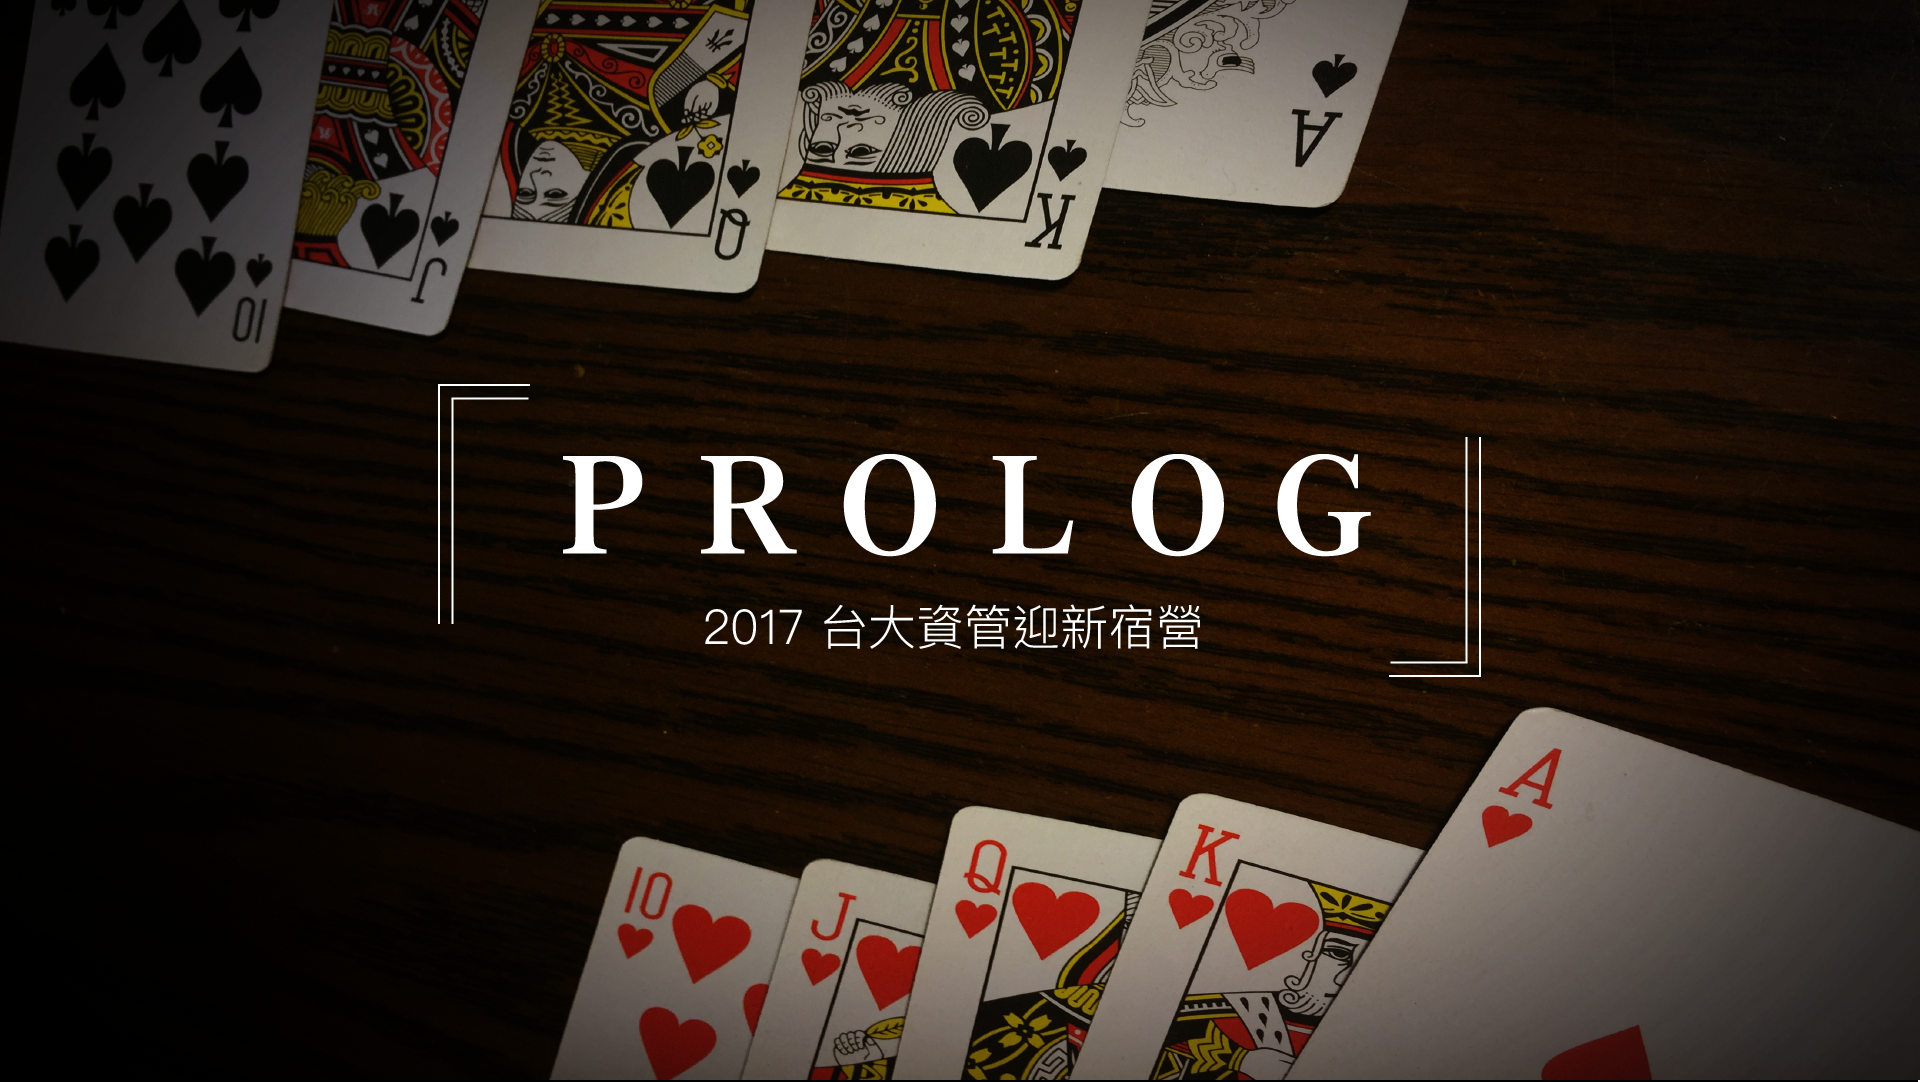
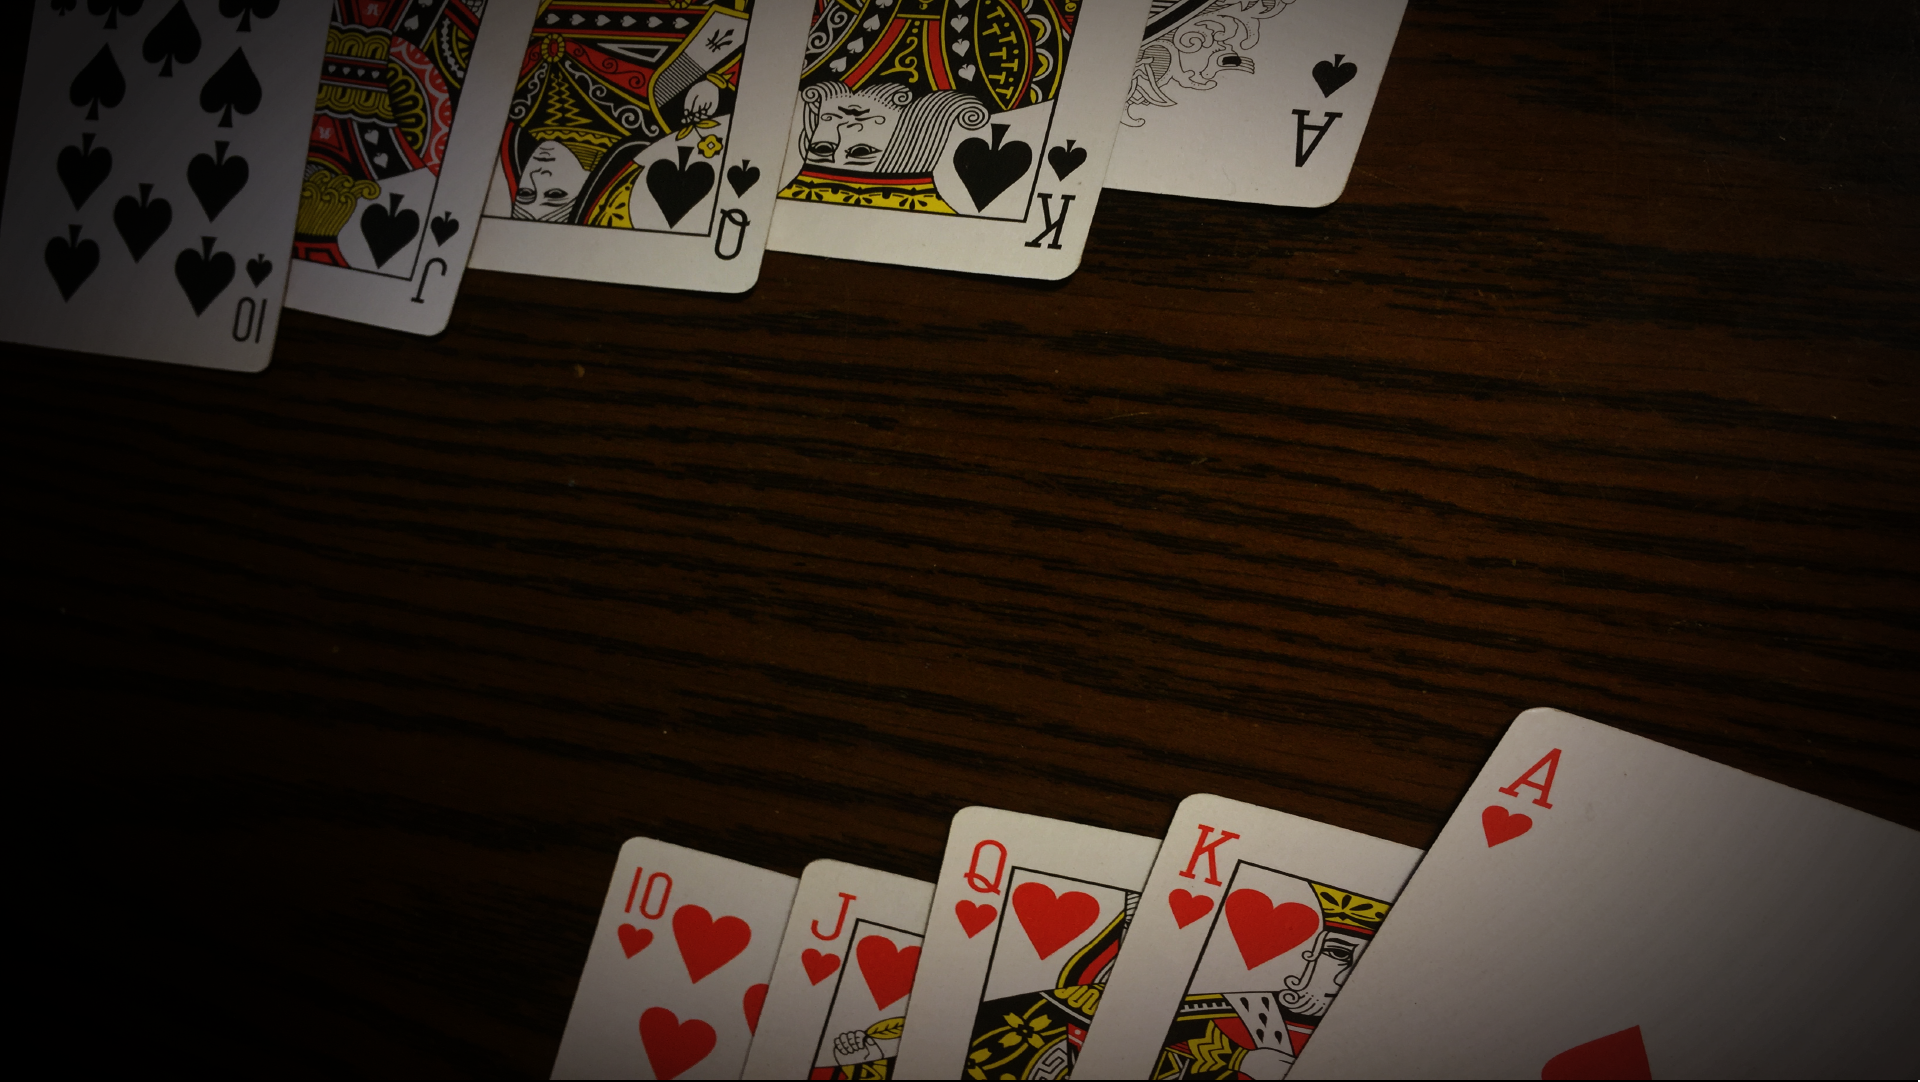
stuck in intro div

diff --git a/Prolog.css b/Prolog.css
@@ -1,18 +1,31 @@
-#picture-space {
-	width: 100%; height: 750px;
-	background-color: #D8D8EB;
+body {
 	background-image: url("prolog.jpg"); background-size: 100%;
-	text-align: center; line-height: 600px;
-	font-family: "Microsoft JhengHei"; font-size: 100px;
-	font-weight: bold;
+	background-attachment: fixed;
+}
+#picture-space {
+	width: 100%; height: 50vw;
+	text-align: center;
+	line-height: 70vw;
 }
 #select-bar {
-	width: 100%; height: 100px;
-	background-color: #D8D8EB;
-	font-family: "Microsoft JhengHei"; font-size: 70px;
-	font-weight: bold; line-height: 100px;
+	width: 100%; height: 70px;
+	background-color: #000000;
+	font-family: "Microsoft JhengHei"; font-size: 45px;
+	color:#FFFFFF;
+	font-weight: bold; line-height: 70px;
 	text-align: center;
-	border: solid thin;
+	opacity: 0.7;
+}
+#fixed-bar {
+	width: 100%; height: 70px;
+	background-color: #000000;
+	font-family: "Microsoft JhengHei"; font-size: 45px;
+	color:#FFFFFF;
+	font-weight: bold; line-height: 70px;
+	text-align: center;
+	display: none; position: fixed;
+	top: 0;
+	opacity: 0.7;
 }
 .btn {
 	width: 150px; display: inline-block;
@@ -20,56 +33,86 @@
 	padding-right: 20px;
 }
 .anchor {
-	top: -110px;
+	top: -70px;
 	display: block;
 	position: relative;
 }
 #intro-space {
-	width: 100%; height: 600px;
-	background-color: #D8D8EB;
-	text-align: center; line-height: 600px;
-	font-family: "Microsoft JhengHei"; font-size: 100px;
-	font-weight: bold;
+	width: 100%; height: 50vw;
+	background-image: url("intro.png"); background-size: 100%;
+	background-color: #ADADAD;
+}
+#book-btn {
+	border: solid;
+	width: 30vw; height: 30vw;
+	/*position: relative; */
+	display: inline-block;
+}
+#intro-text {
+	border: solid;
+	width: 30vw; height: 30vw;
+	/*position: relative; */
+	display: inline-block;
 }
 #schedule-space {
-	width: 100%; height: 600px;
-	background-color: #D8D8EB;
-	text-align: center; line-height: 600px;
+	width: 100%; height: 50vw;
+	background-image: url('schedule.jpg');background-size: 100%;
+	background-repeat: no-repeat;
+	text-align: center;
 	font-family: "Microsoft JhengHei"; font-size: 100px;
 	font-weight: bold;
+	background-color: black;
 }
 #first-footer {
-	width: 100%; height: 600px;
+	width: 100%; height: 50vw;
 	background-color: #D8D8EB;
-	text-align: center; line-height: 600px;
+	text-align: center;
 	font-family: "Microsoft JhengHei"; font-size: 100px;
 	font-weight: bold;
 }
 #register-space {
-	width: 100%; height: 600px;
-	background-color: #D8D8EB;
-	text-align: center; line-height: 600px;
+	width: 100%; height: 50vw;
+	background-color: #ADADAD;
+	text-align: center;
 	font-family: "Microsoft JhengHei"; font-size: 100px;
 	font-weight: bold;
 }
 #pay-space {
-	width: 100%; height: 600px;
+	width: 100%; height: 50vw;
 	background-color: #D8D8EB;
-	text-align: center; line-height: 600px;
+	text-align: center;
 	font-family: "Microsoft JhengHei"; font-size: 100px;
 	font-weight: bold;
 }
 #game-space {
-	width: 100%; height: 600px;
-	background-color: #D8D8EB;
-	text-align: center; line-height: 600px;
+	width: 100%; height: 50vw;
+	background-color: #ADADAD;
+	text-align: center;
 	font-family: "Microsoft JhengHei"; font-size: 100px;
 	font-weight: bold;
 }
 #contact-space {
-	width: 100%; height: 600px;
+	width: 100%; height: 50vw;
 	background-color: #D8D8EB;
-	text-align: center; line-height: 600px;
+	text-align: center;
 	font-family: "Microsoft JhengHei"; font-size: 100px;
 	font-weight: bold;
+}
+a:link {
+    color: white;
+}
+
+/* visited link */
+a:visited {
+    color: white;
+}
+
+/* mouse over link */
+a:hover {
+    color: #ADADAD;
+}
+
+/* selected link */
+a:active {
+    color: #4F4F4F;
 }

diff --git a/Prolog.html b/Prolog.html
@@ -8,46 +8,48 @@
 
 <body>
 	<div id="picture-space">
+		<img src="prolog_text.png">
 	</div>
-	<hr>
 	<div id="select-bar">
-		<a href="Prolog.html#intro"><div class="btn">簡介</div></a>
-		<a href="Prolog.html#schedule"><div class="btn">流程</div></a>
-		<a href="Prolog.html#register"><div class="btn">報名</div></a>
-		<a href="Prolog.html#pay"><div class="btn">匯款</div></a>
-		<a href="Prolog.html#game"><div class="btn">遊戲</div></a>
-		<a href="Prolog.html#contact"><div class="btn">聯絡</div></a>
+		<a href="#intro"><div class="btn">簡介</div></a>
+		<a href="#schedule"><div class="btn">流程</div></a>
+		<a href="#register"><div class="btn">報名</div></a>
+		<a href="#pay"><div class="btn">匯款</div></a>
+		<a href="#game"><div class="btn">遊戲</div></a>
+		<a href="#contact"><div class="btn">聯絡</div></a>
 	</div>
-	<hr>
+	<div id="fixed-bar">
+		<a href="#intro"><div class="btn">簡介</div></a>
+		<a href="#schedule"><div class="btn">流程</div></a>
+		<a href="#register"><div class="btn">報名</div></a>
+		<a href="#pay"><div class="btn">匯款</div></a>
+		<a href="#game"><div class="btn">遊戲</div></a>
+		<a href="#contact"><div class="btn">聯絡</div></a>
+	</div>
 	<a class="anchor" name="intro"></a>
 	<div id="intro-space">
-		<div>簡介</div>
+		<div id="intro-text"></div>
+		<div id="book-btn"></div>
 	</div> 
-	<hr>
 	<a class="anchor" name="schedule"></a>
 	<div id="schedule-space">
 		<div>流程</div>
 	</div>
-	<hr>
 	<div id="first-footer">
 		<div>心動了嗎立即報名之類的~~</div>
 	</div>
-	<hr>
 	<a class="anchor" name="register"></a>
 	<div id="register-space">
 		<div>報名</div>
 	</div>
-	<hr>
 	<a class="anchor" name="pay"></a>
 	<div id="pay-space">
 		<div>匯款</div>
 	</div>
-	<hr>
 	<a class="anchor" name="game"></a>
 	<div id="game-space">
 		<div>遊戲</div>
 	</div>
-	<hr>
 	<a class="anchor" name="contact"></a>
 	<div id="contact-space">
 		<div>聯絡</div>

diff --git a/Prolog.js b/Prolog.js
@@ -5,8 +5,15 @@ let barHeight = document.getElementById('select-bar').offsetHeight;
 // sticker bar
 $(window).scroll(function(){
     if($(window).scrollTop() > barPosition.top){
-        $('#select-bar').css('position','fixed').css('top','0').css('width',barWidth);
+        $('#fixed-bar').css('display','block').css('width',barWidth);
+        $('#select-bar').css('visibility','hidden');
     } else {
-        $('#select-bar').css('position','static');
+        $('#fixed-bar').css('display','none');
+        $('#select-bar').css('visibility','visible');
     }    
 });
+
+let bookbtn = document.getElementById('book-btn');
+bookbtn.addEventListener('click', (event) => {
+	
+})
